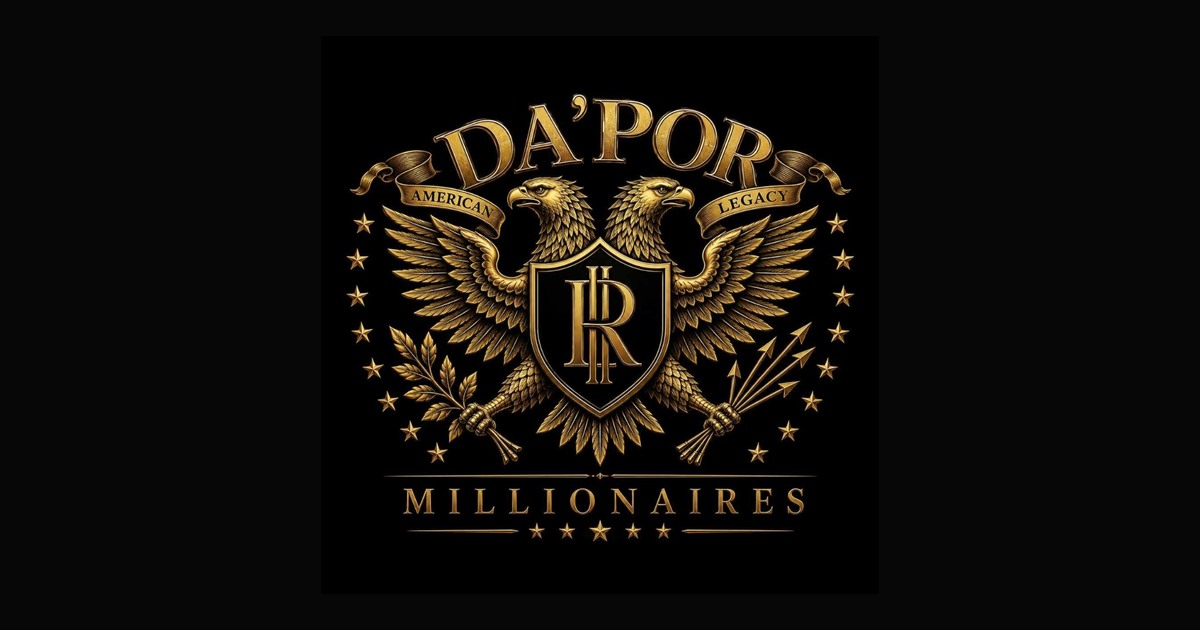
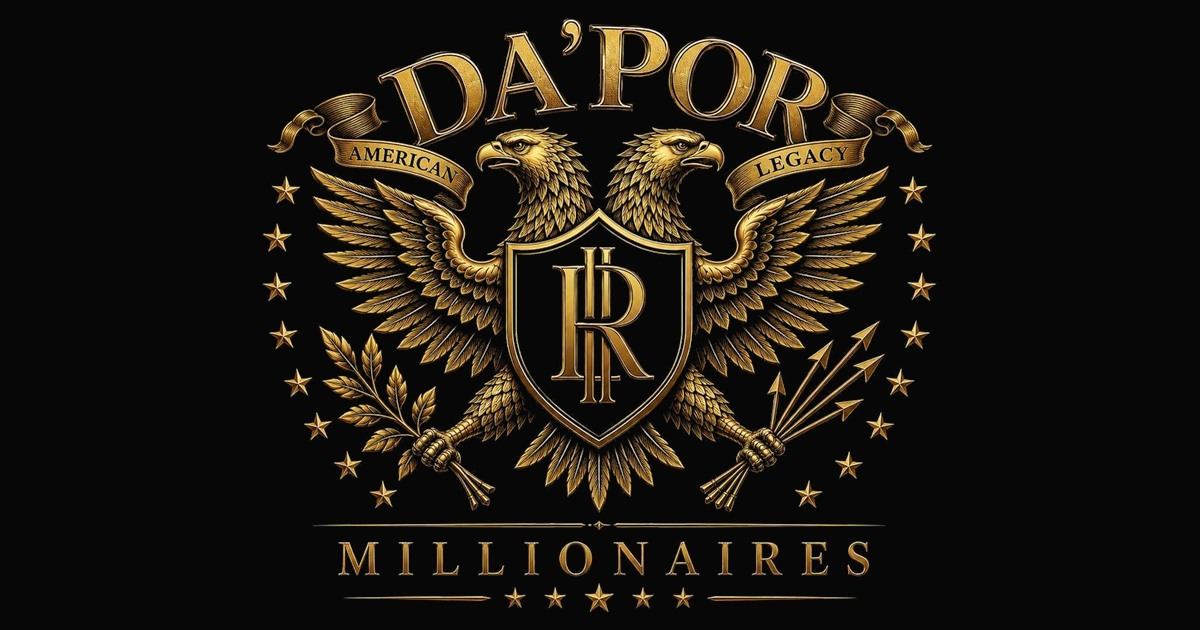
Add og img

diff --git a/index.html b/index.html
@@ -10,7 +10,7 @@
   <meta property="og:url" content="https://www.dapormillionaires.com/" />
   <meta property="og:title" content="DA'POR Millionaires — Built for Legacy" />
   <meta property="og:description" content="Explore DA’POR Millionaires District zip hoodies and graphic shorts in heather grey, onyx red and onyx turquoise." />
-  <meta property="og:image" content="https://www.dapormillionaires.com/assets/dapor-og.jpg" />
+  <meta property="og:image" content="https://www.dapormillionaires.com/assets/dapor-og.jpg?v=2" />
   <meta property="og:image:type" content="image/jpeg" />
   <meta property="og:image:width" content="1200" />
   <meta property="og:image:height" content="630" />
@@ -18,8 +18,8 @@
   <meta name="twitter:card" content="summary_large_image" />
   <meta name="twitter:title" content="DA'POR Millionaires — Built for Legacy" />
   <meta name="twitter:description" content="Explore DA’POR Millionaires District zip hoodies and graphic shorts in heather grey, onyx red and onyx turquoise." />
-  <meta name="twitter:image" content="https://www.dapormillionaires.com/assets/dapor-og.jpg" />
-  <link rel="image_src" href="https://www.dapormillionaires.com/assets/dapor-og.jpg" />
+  <meta name="twitter:image" content="https://www.dapormillionaires.com/assets/dapor-og.jpg?v=2" />
+  <link rel="image_src" href="https://www.dapormillionaires.com/assets/dapor-og.jpg?v=2" />
   <title>DA'POR Millionaires — Built for Legacy</title>
   <link rel="preconnect" href="https://fonts.googleapis.com">
   <link rel="preconnect" href="https://fonts.gstatic.com" crossorigin>

diff --git a/products/district-onyx-turquoise-graphic-shorts/index.html b/products/district-onyx-turquoise-graphic-shorts/index.html
@@ -10,12 +10,12 @@
   <meta property="og:url" content="https://www.dapormillionaires.com/products/district-onyx-turquoise-graphic-shorts/" />
   <meta property="og:title" content="District Onyx / Turquoise Graphic Shorts — DA’POR Millionaires" />
   <meta property="og:description" content="DA’POR District zip hoodies and graphic shorts. Explore original designs and the preliminary S–5XL size chart." />
-  <meta property="og:image" content="https://www.dapormillionaires.com/assets/dapor-og.jpg" />
+  <meta property="og:image" content="https://www.dapormillionaires.com/assets/dapor-og.jpg?v=2" />
   <meta property="og:image:type" content="image/jpeg" />
   <meta property="og:image:width" content="1200" />
   <meta property="og:image:height" content="630" />
   <meta name="twitter:card" content="summary_large_image" />
-  <meta name="twitter:image" content="https://www.dapormillionaires.com/assets/dapor-og.jpg" />
+  <meta name="twitter:image" content="https://www.dapormillionaires.com/assets/dapor-og.jpg?v=2" />
   <title>Product — DA’POR Millionaires</title>
   <link rel="preconnect" href="https://fonts.googleapis.com">
   <link rel="preconnect" href="https://fonts.gstatic.com" crossorigin>

diff --git a/products/district-heather-grey-graphic-shorts/index.html b/products/district-heather-grey-graphic-shorts/index.html
@@ -10,12 +10,12 @@
   <meta property="og:url" content="https://www.dapormillionaires.com/products/district-heather-grey-graphic-shorts/" />
   <meta property="og:title" content="District Heather Grey Graphic Shorts — DA’POR Millionaires" />
   <meta property="og:description" content="DA’POR District zip hoodies and graphic shorts. Explore original designs and the preliminary S–5XL size chart." />
-  <meta property="og:image" content="https://www.dapormillionaires.com/assets/dapor-og.jpg" />
+  <meta property="og:image" content="https://www.dapormillionaires.com/assets/dapor-og.jpg?v=2" />
   <meta property="og:image:type" content="image/jpeg" />
   <meta property="og:image:width" content="1200" />
   <meta property="og:image:height" content="630" />
   <meta name="twitter:card" content="summary_large_image" />
-  <meta name="twitter:image" content="https://www.dapormillionaires.com/assets/dapor-og.jpg" />
+  <meta name="twitter:image" content="https://www.dapormillionaires.com/assets/dapor-og.jpg?v=2" />
   <title>Product — DA’POR Millionaires</title>
   <link rel="preconnect" href="https://fonts.googleapis.com">
   <link rel="preconnect" href="https://fonts.gstatic.com" crossorigin>

diff --git a/products/district-onyx-turquoise-zip-hoodie/index.html b/products/district-onyx-turquoise-zip-hoodie/index.html
@@ -10,12 +10,12 @@
   <meta property="og:url" content="https://www.dapormillionaires.com/products/district-onyx-turquoise-zip-hoodie/" />
   <meta property="og:title" content="District Onyx / Turquoise Zip Hoodie — DA’POR Millionaires" />
   <meta property="og:description" content="DA’POR District zip hoodies and graphic shorts. Explore original designs and the preliminary S–5XL size chart." />
-  <meta property="og:image" content="https://www.dapormillionaires.com/assets/dapor-og.jpg" />
+  <meta property="og:image" content="https://www.dapormillionaires.com/assets/dapor-og.jpg?v=2" />
   <meta property="og:image:type" content="image/jpeg" />
   <meta property="og:image:width" content="1200" />
   <meta property="og:image:height" content="630" />
   <meta name="twitter:card" content="summary_large_image" />
-  <meta name="twitter:image" content="https://www.dapormillionaires.com/assets/dapor-og.jpg" />
+  <meta name="twitter:image" content="https://www.dapormillionaires.com/assets/dapor-og.jpg?v=2" />
   <title>Product — DA’POR Millionaires</title>
   <link rel="preconnect" href="https://fonts.googleapis.com">
   <link rel="preconnect" href="https://fonts.gstatic.com" crossorigin>

diff --git a/products/district-onyx-red-graphic-shorts/index.html b/products/district-onyx-red-graphic-shorts/index.html
@@ -10,12 +10,12 @@
   <meta property="og:url" content="https://www.dapormillionaires.com/products/district-onyx-red-graphic-shorts/" />
   <meta property="og:title" content="District Onyx / Red Graphic Shorts — DA’POR Millionaires" />
   <meta property="og:description" content="DA’POR District zip hoodies and graphic shorts. Explore original designs and the preliminary S–5XL size chart." />
-  <meta property="og:image" content="https://www.dapormillionaires.com/assets/dapor-og.jpg" />
+  <meta property="og:image" content="https://www.dapormillionaires.com/assets/dapor-og.jpg?v=2" />
   <meta property="og:image:type" content="image/jpeg" />
   <meta property="og:image:width" content="1200" />
   <meta property="og:image:height" content="630" />
   <meta name="twitter:card" content="summary_large_image" />
-  <meta name="twitter:image" content="https://www.dapormillionaires.com/assets/dapor-og.jpg" />
+  <meta name="twitter:image" content="https://www.dapormillionaires.com/assets/dapor-og.jpg?v=2" />
   <title>Product — DA’POR Millionaires</title>
   <link rel="preconnect" href="https://fonts.googleapis.com">
   <link rel="preconnect" href="https://fonts.gstatic.com" crossorigin>

diff --git a/products/district-heather-grey-zip-hoodie/index.html b/products/district-heather-grey-zip-hoodie/index.html
@@ -10,12 +10,12 @@
   <meta property="og:url" content="https://www.dapormillionaires.com/products/district-heather-grey-zip-hoodie/" />
   <meta property="og:title" content="District Heather Grey Zip Hoodie — DA’POR Millionaires" />
   <meta property="og:description" content="DA’POR District zip hoodies and graphic shorts. Explore original designs and the preliminary S–5XL size chart." />
-  <meta property="og:image" content="https://www.dapormillionaires.com/assets/dapor-og.jpg" />
+  <meta property="og:image" content="https://www.dapormillionaires.com/assets/dapor-og.jpg?v=2" />
   <meta property="og:image:type" content="image/jpeg" />
   <meta property="og:image:width" content="1200" />
   <meta property="og:image:height" content="630" />
   <meta name="twitter:card" content="summary_large_image" />
-  <meta name="twitter:image" content="https://www.dapormillionaires.com/assets/dapor-og.jpg" />
+  <meta name="twitter:image" content="https://www.dapormillionaires.com/assets/dapor-og.jpg?v=2" />
   <title>Product — DA’POR Millionaires</title>
   <link rel="preconnect" href="https://fonts.googleapis.com">
   <link rel="preconnect" href="https://fonts.gstatic.com" crossorigin>

diff --git a/products/district-onyx-red-zip-hoodie/index.html b/products/district-onyx-red-zip-hoodie/index.html
@@ -10,12 +10,12 @@
   <meta property="og:url" content="https://www.dapormillionaires.com/products/district-onyx-red-zip-hoodie/" />
   <meta property="og:title" content="District Onyx / Red Zip Hoodie — DA’POR Millionaires" />
   <meta property="og:description" content="DA’POR District zip hoodies and graphic shorts. Explore original designs and the preliminary S–5XL size chart." />
-  <meta property="og:image" content="https://www.dapormillionaires.com/assets/dapor-og.jpg" />
+  <meta property="og:image" content="https://www.dapormillionaires.com/assets/dapor-og.jpg?v=2" />
   <meta property="og:image:type" content="image/jpeg" />
   <meta property="og:image:width" content="1200" />
   <meta property="og:image:height" content="630" />
   <meta name="twitter:card" content="summary_large_image" />
-  <meta name="twitter:image" content="https://www.dapormillionaires.com/assets/dapor-og.jpg" />
+  <meta name="twitter:image" content="https://www.dapormillionaires.com/assets/dapor-og.jpg?v=2" />
   <title>Product — DA’POR Millionaires</title>
   <link rel="preconnect" href="https://fonts.googleapis.com">
   <link rel="preconnect" href="https://fonts.gstatic.com" crossorigin>

diff --git a/success.html b/success.html
@@ -7,11 +7,11 @@
   <meta property="og:type" content="website" />
   <meta property="og:site_name" content="DA’POR Millionaires" />
   <meta property="og:title" content="Order confirmed — DA’POR Millionaires" />
-  <meta property="og:image" content="https://www.dapormillionaires.com/assets/dapor-og.jpg" />
+  <meta property="og:image" content="https://www.dapormillionaires.com/assets/dapor-og.jpg?v=2" />
   <meta property="og:image:width" content="1200" />
   <meta property="og:image:height" content="630" />
   <meta name="twitter:card" content="summary_large_image" />
-  <meta name="twitter:image" content="https://www.dapormillionaires.com/assets/dapor-og.jpg" />
+  <meta name="twitter:image" content="https://www.dapormillionaires.com/assets/dapor-og.jpg?v=2" />
   <title>Order confirmed — DA’POR Millionaires</title>
   <link rel="preconnect" href="https://fonts.googleapis.com">
   <link rel="preconnect" href="https://fonts.gstatic.com" crossorigin>

diff --git a/men/index.html b/men/index.html
@@ -10,9 +10,9 @@
   <meta property="og:url" content="https://www.dapormillionaires.com/men/" />
   <meta property="og:title" content="Men — DA’POR Millionaires" />
   <meta property="og:description" content="Shop DA’POR men’s District zip hoodies and graphic shorts from the first edition." />
-  <meta property="og:image" content="https://www.dapormillionaires.com/assets/dapor-og.jpg" />
+  <meta property="og:image" content="https://www.dapormillionaires.com/assets/dapor-og.jpg?v=2" />
   <meta name="twitter:card" content="summary_large_image" />
-  <meta name="twitter:image" content="https://www.dapormillionaires.com/assets/dapor-og.jpg" />
+  <meta name="twitter:image" content="https://www.dapormillionaires.com/assets/dapor-og.jpg?v=2" />
   <title>Men — DA’POR Millionaires</title>
   <link rel="preconnect" href="https://fonts.googleapis.com">
   <link rel="preconnect" href="https://fonts.gstatic.com" crossorigin>

diff --git a/women/index.html b/women/index.html
@@ -10,9 +10,9 @@
   <meta property="og:url" content="https://www.dapormillionaires.com/women/" />
   <meta property="og:title" content="Women — DA’POR Millionaires" />
   <meta property="og:description" content="Women’s DA’POR styles are being prepared for an upcoming drop." />
-  <meta property="og:image" content="https://www.dapormillionaires.com/assets/dapor-og.jpg" />
+  <meta property="og:image" content="https://www.dapormillionaires.com/assets/dapor-og.jpg?v=2" />
   <meta name="twitter:card" content="summary_large_image" />
-  <meta name="twitter:image" content="https://www.dapormillionaires.com/assets/dapor-og.jpg" />
+  <meta name="twitter:image" content="https://www.dapormillionaires.com/assets/dapor-og.jpg?v=2" />
   <title>Women — DA’POR Millionaires</title>
   <link rel="preconnect" href="https://fonts.googleapis.com">
   <link rel="preconnect" href="https://fonts.gstatic.com" crossorigin>

diff --git a/accessories/index.html b/accessories/index.html
@@ -10,9 +10,9 @@
   <meta property="og:url" content="https://www.dapormillionaires.com/accessories/" />
   <meta property="og:title" content="Accessories — DA’POR Millionaires" />
   <meta property="og:description" content="DA’POR accessories are coming soon." />
-  <meta property="og:image" content="https://www.dapormillionaires.com/assets/dapor-og.jpg" />
+  <meta property="og:image" content="https://www.dapormillionaires.com/assets/dapor-og.jpg?v=2" />
   <meta name="twitter:card" content="summary_large_image" />
-  <meta name="twitter:image" content="https://www.dapormillionaires.com/assets/dapor-og.jpg" />
+  <meta name="twitter:image" content="https://www.dapormillionaires.com/assets/dapor-og.jpg?v=2" />
   <title>Accessories — DA’POR Millionaires</title>
   <link rel="preconnect" href="https://fonts.googleapis.com">
   <link rel="preconnect" href="https://fonts.gstatic.com" crossorigin>

diff --git a/kids/index.html b/kids/index.html
@@ -10,9 +10,9 @@
   <meta property="og:url" content="https://www.dapormillionaires.com/kids/" />
   <meta property="og:title" content="Kids — DA’POR Millionaires" />
   <meta property="og:description" content="Kids DA’POR styles will land with a later edition." />
-  <meta property="og:image" content="https://www.dapormillionaires.com/assets/dapor-og.jpg" />
+  <meta property="og:image" content="https://www.dapormillionaires.com/assets/dapor-og.jpg?v=2" />
   <meta name="twitter:card" content="summary_large_image" />
-  <meta name="twitter:image" content="https://www.dapormillionaires.com/assets/dapor-og.jpg" />
+  <meta name="twitter:image" content="https://www.dapormillionaires.com/assets/dapor-og.jpg?v=2" />
   <title>Kids — DA’POR Millionaires</title>
   <link rel="preconnect" href="https://fonts.googleapis.com">
   <link rel="preconnect" href="https://fonts.gstatic.com" crossorigin>
